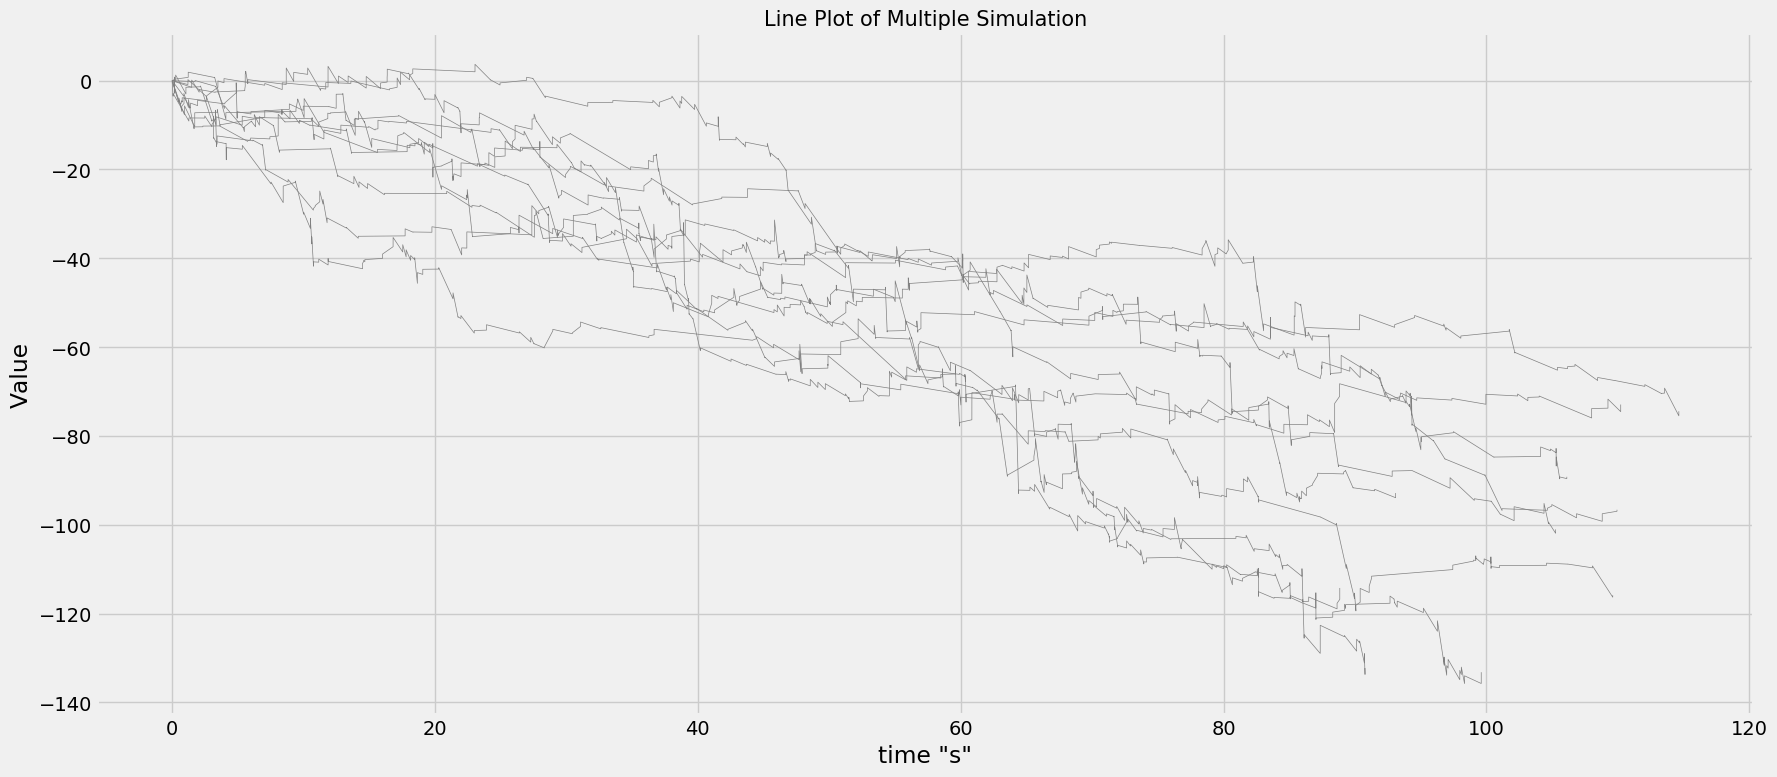
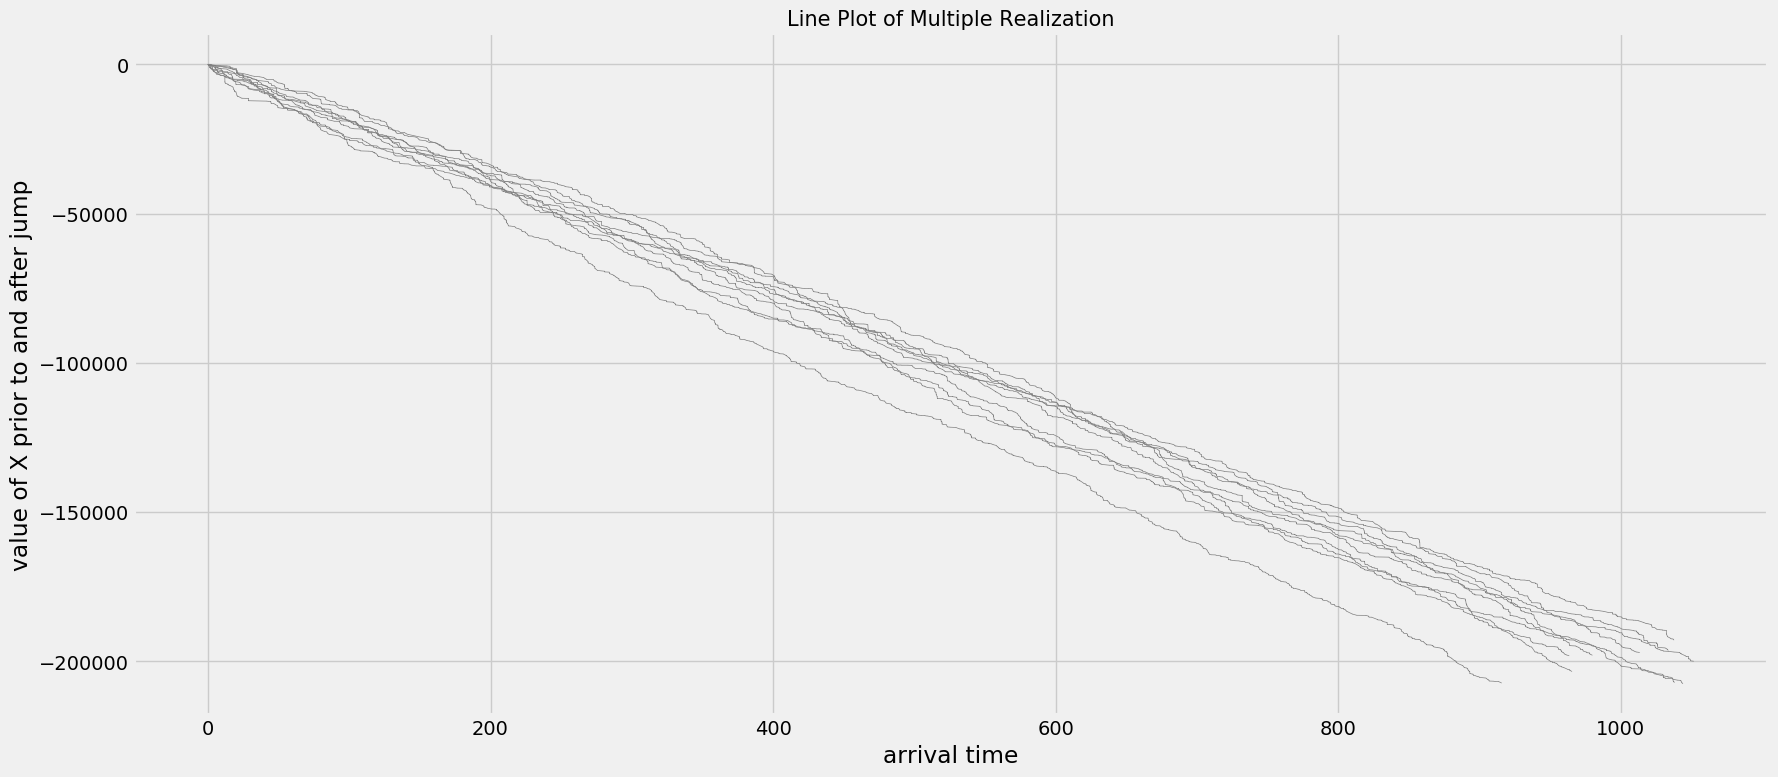
update

diff --git a/src/func_dist.py b/src/func_dist.py
@@ -5,6 +5,8 @@
 import scipy.stats as st
 import numpy as np
 
+########################################################################################################################
+
 
 def exp(lbd):
     """
@@ -13,7 +15,8 @@ def exp(lbd):
     :param lbd: parameter in desired exponential distribution, lamda = 1 / mean
     :return: generated value once
     """
-    return st.expon(scale=1 / lbd).rvs(size=1)[0]
+    mean = 1 / lbd
+    return st.expon(scale=mean).rvs(size=1)[0]
 
 
 def erlang(shape):
@@ -24,7 +27,7 @@ def erlang(shape):
     :param shape: when shape parameter k equals one, it simplifies to the exponential distribution.
     :return: generated value once
     """
-    return st.erlang(shape).rvs(size=1)
+    return st.erlang(shape).rvs(size=1)[0]
 
 
 def hyperexp(p1, lbd1, p2, lbd2):
@@ -40,7 +43,7 @@ def hyperexp(p1, lbd1, p2, lbd2):
            
     : return: generated value once
     """
-    return np.random.choice(a=[st.expon.rvs(scale=1/lbd1), st.expon.rvs(scale=1/lbd2)], size=1, p=[p1, 1-p1])
+    return np.random.choice(a=[st.expon.rvs(scale=1/lbd1), st.expon.rvs(scale=1/lbd2)], size=1, p=[p1, 1-p1])[0]
 
 
 def pareto(alpha, scale):
@@ -49,7 +52,7 @@ def pareto(alpha, scale):
         Built-in Python: pdf = f_{X}(x)=\left\{\begin{array}{ll}{\frac{\alpha x_{\mathrm{m}}^{\alpha}}{x^{\alpha+1}}} &
         {x \geq x_{\mathrm{m}}} \\ {0} & {x<x_{\mathrm{m}}}\end{array}\right.
 	"""
-    return st.pareto(b = alpha, scale = scale).rvs(size = 1)
+    return st.pareto(b = alpha, scale = scale).rvs(size = 1)[0]
 
 
 

diff --git a/src/task.py b/src/task.py
@@ -55,15 +55,15 @@ def do4():
     Plot the multiple simulation on different Y distribution
     :return:
     """
-    mu = 1  # mean = 1 / beta
-    sigma = 1  # mean = 1 / beta
-    lamb = 1  # mean = 1 / beta
+    mu = 100
+    sigma = 1
+    lbd = 1
     n_sample = 1000
-    n_sim = 100
+    n_sim = 10
     func_dist_y = [simulate.select_dist(1), simulate.select_dist_erlang(1),
                    simulate.select_dist_hyperexpon(1, 0.5, 1, 0.5), simulate.select_dist_pareto(2, 0.5)]
     for i in range(len(func_dist_y)):
-        _, _, _, mat_s, mat_p, mat_a, mat_m, _ = realize.multi(mu, sigma, lamb, func_dist_y[i], n_sample, n_sim)
+        _, _, _, mat_s, mat_p, mat_a, mat_m, _ = realize.multi(mu, sigma, lbd, func_dist_y[i], n_sample, n_sim)
         vi.line_multi_pa(mat_s, mat_p, mat_a, 'task4' + str(i))
 
         

diff --git a/src/visualize.py b/src/visualize.py
@@ -143,9 +143,9 @@ def line_multi_pa(mat_s, mat_p, mat_a, name_fig, whe_show=False):
     for i in range(n_sim):
         list_ss, list_pa = inter_pa(mat_s[i, :], mat_p[i, :], mat_a[i, :])
         plt.plot(list_ss, list_pa, linewidth=0.5, c='gray')
-    plt.xlabel('time "s"')
-    plt.ylabel('Value')
-    plt.title('Line Plot of Multiple Simulation', fontsize=15)
+    plt.xlabel('arrival time')
+    plt.ylabel('value of X prior to and after jump')
+    plt.title('Line Plot of Multiple Realization', fontsize=15)
     plt.tight_layout()
     if whe_show:  # Whether to show the plot
         plt.show()
